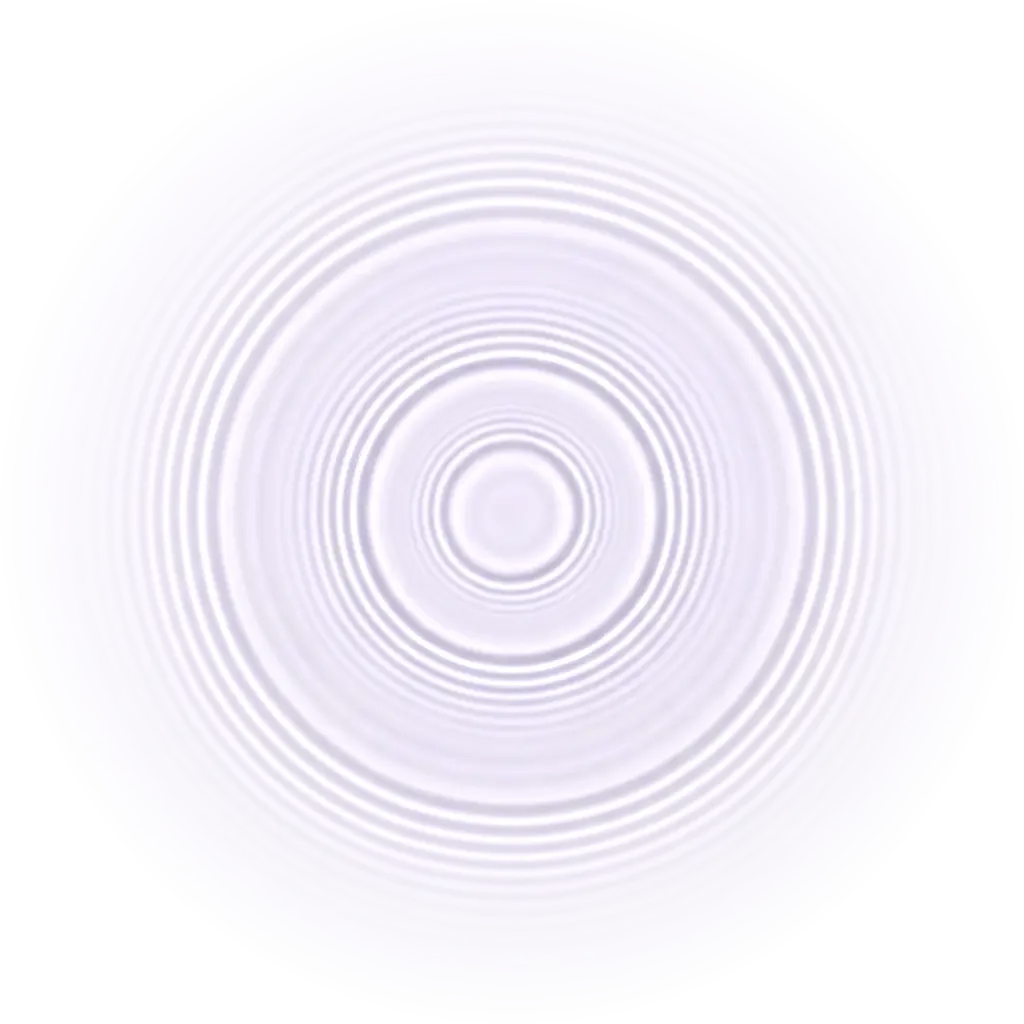
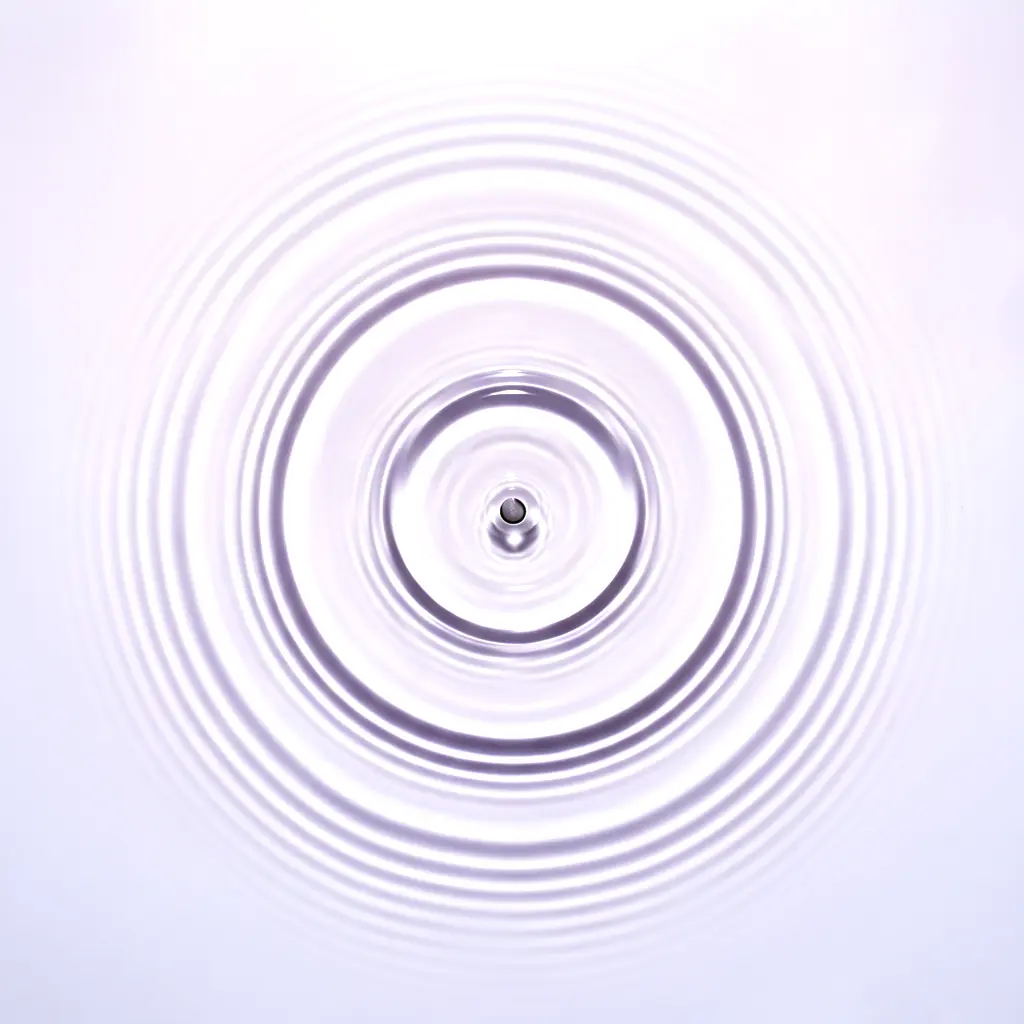
Crystals water v3 — stronger + MOVING ripples: regenerated crisp 'pebble in a sea' ripples (nano_banana 2k), tone-matched to bg with contrast kept high; animated as two cross-faded copies scaling outward so the concentric rings continuously propagate from the stone like real water (loops seamlessly,

Changed region(s): [[0.125, 0.1562, 0.875, 0.9375], [0.0, 0.75, 1.0, 1.0]]

diff --git a/index.html b/index.html
@@ -441,8 +441,11 @@ body.in-history #depth,body.in-history #mbar,body.in-history #scrollbar,body.in-
 
 /* mineral crystals */
 #mineralLayer{position:fixed;inset:0;z-index:41;pointer-events:none}
-/* crystals: the stone sits in a photoreal rippled water pool (generated water surface, perspective-squashed, follows the stone) */
-#crysPool{opacity:.97}
+/* crystals: the stone sits in a photoreal rippled water pool — two cross-faded copies scale outward so the concentric rings continuously propagate outward like real ripples spreading from the stone */
+.crysPool{transform-box:fill-box;transform-origin:center;will-change:transform,opacity;animation:poolProp 7.2s linear infinite}
+.crysPoolB{animation-delay:-3.6s}
+@keyframes poolProp{0%{transform:scale(.5);opacity:0}12%{opacity:.92}55%{opacity:.82}100%{transform:scale(1.42);opacity:0}}
+@media(prefers-reduced-motion:reduce){.crysPool{animation:none;transform:scale(1);opacity:.95}.crysPoolB{display:none}}
 .crystal{position:absolute;z-index:30;width:74px;height:74px;display:flex;align-items:center;justify-content:center;
   cursor:pointer;pointer-events:auto;opacity:0;transition:transform .34s cubic-bezier(.34,1.56,.64,1),filter .3s ease}
 /* the clear glass sphere the crystal floats inside — layered speculars over a see-through lavender body */
@@ -739,9 +742,12 @@ details p{padding:0 20px 16px;font-size:14.5px;line-height:1.7;color:#4a4460}
       <text x="500" y="687" font-size="96" letter-spacing="-3" transform="translate(0,687) scale(1,2.25) translate(0,-687)">POWERFUL</text>
     </g>
     <!-- THE STONE (real Promise mud-stone art, feathered into the purple stage) -->
-    <!-- the stone rests in a photoreal rippled water pool (crystals scene) — behind the stone so the ripples radiate from it and everything sits on the water -->
+    <!-- the stone rests in a photoreal rippled water pool (crystals scene) — behind the stone so the ripples radiate from it; two cross-faded copies scale outward so the rings continuously propagate like real water -->
     <g id="crysRipple" opacity="0">
-      <image id="crysPool" href="assets/minerals/water-pool.webp" x="150" y="150" width="700" height="700" transform="translate(500,500) scale(1,0.6) translate(-500,-500)" preserveAspectRatio="xMidYMid meet"/>
+      <g transform="translate(500,500) scale(1,0.6) translate(-500,-500)">
+        <image class="crysPool" href="assets/minerals/water-pool.webp" x="150" y="150" width="700" height="700" preserveAspectRatio="xMidYMid meet"/>
+        <image class="crysPool crysPoolB" href="assets/minerals/water-pool.webp" x="150" y="150" width="700" height="700" preserveAspectRatio="xMidYMid meet"/>
+      </g>
     </g>
     <!-- the mineral orbit path (behind the stone) -->
     <ellipse id="crysOrbit" cx="500" cy="500" rx="160" ry="130" fill="none" stroke="#8a63d8" stroke-width="1.4" stroke-opacity="0.55" opacity="0"/>